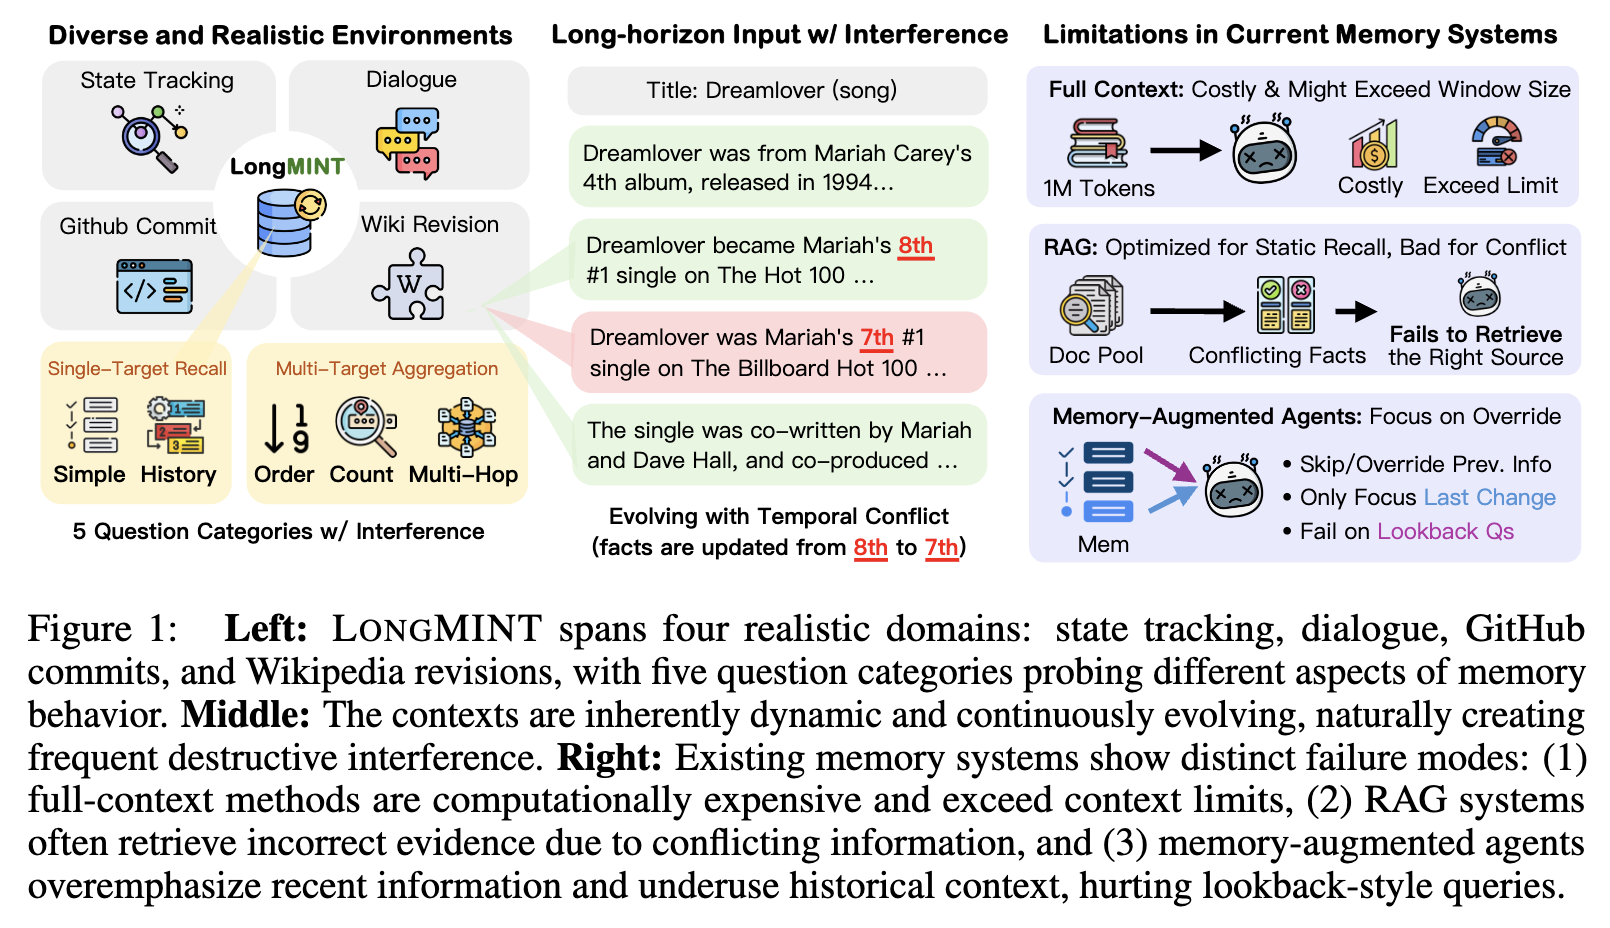
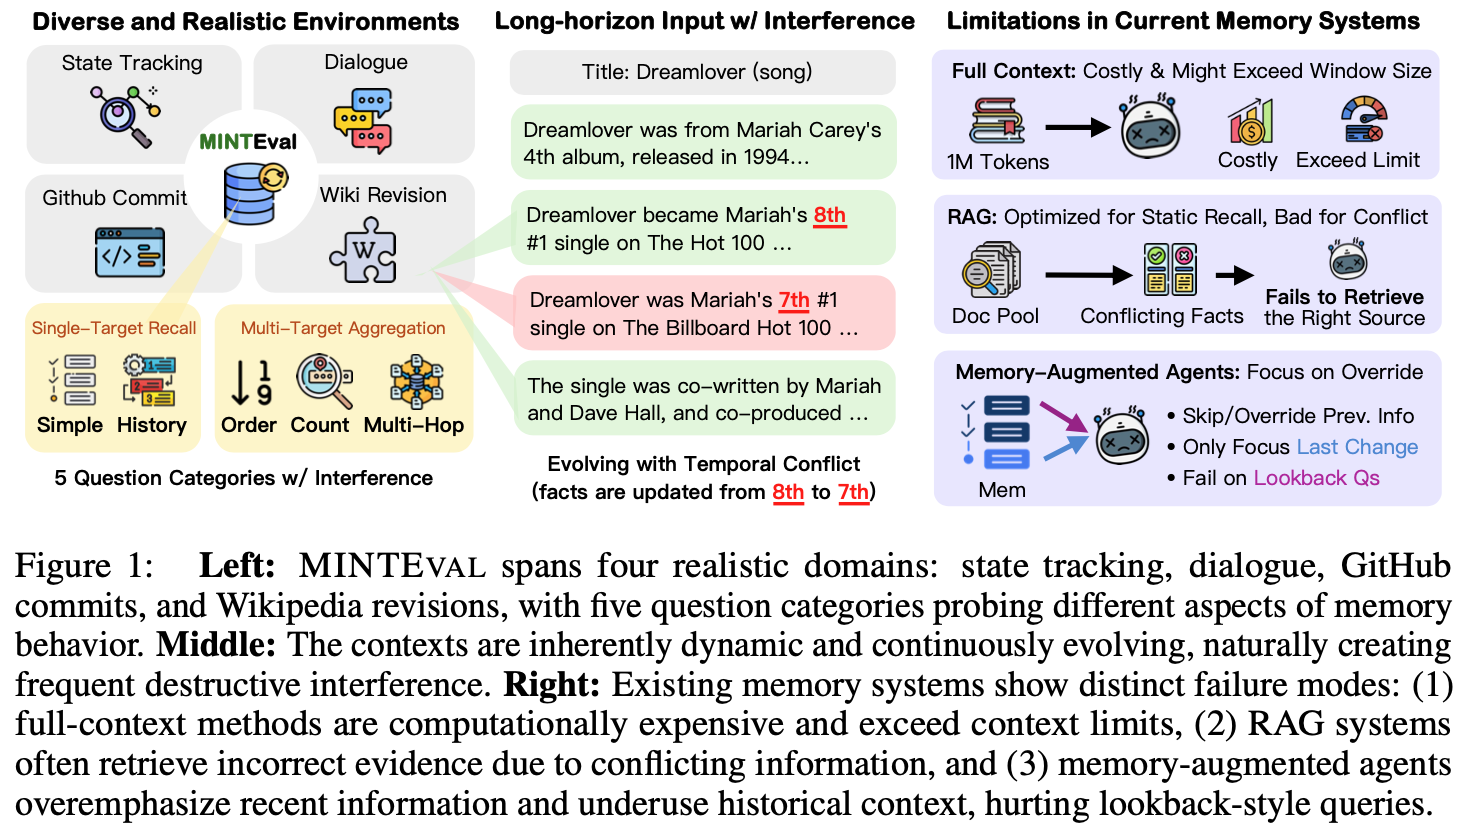
change dataname

Changed region(s): [[0.0, 0.0, 0.9796, 0.6325], [0.0, 0.6627, 1.0, 0.994]]

diff --git a/_common.py b/_common.py
@@ -188,7 +188,7 @@ def render_doc(ctx: dict, max_doc_chars: int) -> str:
     return doc
 
 
-HF_DATASET_ID = "dinobby/LongMINT"
+HF_DATASET_ID = "dinobby/MINTEval"
 HF_SPLIT_MAP = {
     "babi":         "state_tracking",
     "wiki":         "wiki_revisions",
@@ -255,7 +255,7 @@ def load_unified(path: str, max_doc_chars: int = 0):
 
 def load_from_hf(dataset: str, max_doc_chars: int = 0, *,
                  repo_id: str = HF_DATASET_ID):
-    """Load a split from the dinobby/LongMINT HF dataset (or any repo with
+    """Load a split from the dinobby/MINTEval HF dataset (or any repo with
     the same split-naming convention) and reshape into our in-memory schema.
 
     `dataset` is one of our short names (babi / wiki / github / horizonbench);
@@ -284,7 +284,7 @@ def load_raw_dataset(dataset: str, data_root: str | None, *,
 
     Source selection mirrors baserag/hipporag: when `data_root` is given,
     load `<data_root>/<dataset>.json`; otherwise pull the matching split
-    from the HF dataset (default `dinobby/LongMINT`). In both cases
+    from the HF dataset (default `dinobby/MINTEval`). In both cases
     `questions[].metadata` is normalized to a dict so callers indexing
     into the raw structure (atommem, fullcontext) don't need to care
     which source it came from.
@@ -314,7 +314,7 @@ def load_raw_dataset(dataset: str, data_root: str | None, *,
 def load_dataset_unified(dataset: str, data_path: str | None,
                          max_doc_chars: int = 0):
     """Single entry point: when `data_path` is given, load that JSON file;
-    otherwise pull the dataset from Hugging Face (`dinobby/LongMINT`). Returns
+    otherwise pull the dataset from Hugging Face (`dinobby/MINTEval`). Returns
     the same in-memory schema in both cases."""
     if data_path:
         return load_unified(data_path, max_doc_chars)

diff --git a/src/mem_alpha/conversation_creator.py b/src/mem_alpha/conversation_creator.py
@@ -24,8 +24,8 @@ class ConversationCreator():
 
         if dataset in ('memalpha', 'unified', 'unified_babi', 'unified_github', 'unified_horizonbench', 'unified_wiki'):
             
-            LONGMINT_HF_REPO = os.getenv('LONGMINT_HF_REPO', 'dinobby/LongMINT')
-            LONGMINT_LOCAL_DIR = os.getenv('LONGMINT_LOCAL_DIR')
+            MINTEval_HF_REPO = os.getenv('MINTEval_HF_REPO', 'dinobby/MINTEval')
+            MINTEval_LOCAL_DIR = os.getenv('MINTEval_LOCAL_DIR')
 
             HF_SPLIT_MAP = {
                 'babi':         'state_tracking',
@@ -50,11 +50,11 @@ class ConversationCreator():
                 return v
 
             def _load_items(source):
-                if LONGMINT_LOCAL_DIR:
-                    p = os.path.join(LONGMINT_LOCAL_DIR, f'{source}.json')
+                if MINTEval_LOCAL_DIR:
+                    p = os.path.join(MINTEval_LOCAL_DIR, f'{source}.json')
                     with open(p) as f:
                         return json.load(f), f'local:{p}'
-                hf_ds = load_dataset(LONGMINT_HF_REPO, split=HF_SPLIT_MAP[source])
+                hf_ds = load_dataset(MINTEval_HF_REPO, split=HF_SPLIT_MAP[source])
                 items = []
                 for row in hf_ds:
                     qs = []
@@ -68,7 +68,7 @@ class ConversationCreator():
                         'questions': qs,
                         'metadata': _maybe_unstring(row.get('metadata')),
                     })
-                return items, f'hf:{LONGMINT_HF_REPO}#{HF_SPLIT_MAP[source]}'
+                return items, f'hf:{MINTEval_HF_REPO}#{HF_SPLIT_MAP[source]}'
 
             rows = []
             for source in sources:

diff --git a/src/atommem/run_atommem_unified.py b/src/atommem/run_atommem_unified.py
@@ -23,8 +23,8 @@ EMBED_API_KEY = os.getenv("EMBED_API_KEY", "sk-123")
 
 DATASETS = ["babi", "github", "horizonbench", "wiki"]
 # Local override; leave unset (= None) to fall back to the HF dataset
-# (dinobby/LongMINT) the same way baserag/hipporag/memagent do.
-DEFAULT_DATA_ROOT = os.environ.get("LongMINT_DATA_ROOT")
+# (dinobby/MINTEval) the same way baserag/hipporag/memagent do.
+DEFAULT_DATA_ROOT = os.environ.get("MINTEval_DATA_ROOT")
 
 # Dataset-level instruction docs (per-dataset notes about data structure /
 # answer conventions). Lives under src/memagent/prompts so the same file can
@@ -722,8 +722,8 @@ def parse_args():
     p.add_argument("--data-root", type=str, default=DEFAULT_DATA_ROOT,
                    help="Local directory containing <dataset>.json files. "
                         "Leave unset (default) to load the split from the "
-                        "HF dataset dinobby/LongMINT, or set env "
-                        "LongMINT_DATA_ROOT to override.")
+                        "HF dataset dinobby/MINTEval, or set env "
+                        "MINTEval_DATA_ROOT to override.")
     p.add_argument("--output", type=str, default=None,
                    help="Output JSONL path. "
                         "Default: results_atommem_<dataset>.jsonl")

diff --git a/src/fullcontext/run_fullcontext_unified.py b/src/fullcontext/run_fullcontext_unified.py
@@ -14,7 +14,7 @@ URL = os.getenv("URL", "http://localhost:8000/v1")
 API_KEY = os.getenv("API_KEY", "123-abc")
 
 DATASETS = ["babi", "github", "horizonbench", "wiki"]
-DEFAULT_DATA_ROOT = os.environ.get("LongMINT_DATA_ROOT")
+DEFAULT_DATA_ROOT = os.environ.get("MINTEval_DATA_ROOT")
 
 PROMPTS_DIR = Path(__file__).resolve().parent.parent / "memagent" / "prompts"
 
@@ -349,8 +349,8 @@ def parse_args():
     p.add_argument("--data-root", type=str, default=DEFAULT_DATA_ROOT,
                    help="Local directory containing <dataset>.json files. "
                         "Leave unset (default) to load the split from the "
-                        "HF dataset dinobby/LongMINT, or set env "
-                        "LongMINT_DATA_ROOT to override.")
+                        "HF dataset dinobby/MINTEval, or set env "
+                        "MINTEval_DATA_ROOT to override.")
     p.add_argument("--output", type=str, default=None,
                    help="Output JSONL path. Default: results_fullcontext_<dataset>.jsonl")
     p.add_argument("--limit", type=int, default=None,

diff --git a/src/hipporag/tests_baserag.py b/src/hipporag/tests_baserag.py
@@ -40,7 +40,7 @@ _DTYPE_MAP = {
 
 def parse_args():
     p = argparse.ArgumentParser(
-        description="Dense-retrieval BaseRAG over a unified-format LongMINT dataset.")
+        description="Dense-retrieval BaseRAG over a unified-format MINTEval dataset.")
 
     # I/O
     p.add_argument("--dataset", required=True, choices=sorted(HF_SPLIT_MAP),
@@ -50,7 +50,7 @@ def parse_args():
     p.add_argument("--data_path", default=None,
                    help="Optional path to a local unified-format JSON file. "
                         "When omitted, the dataset is loaded from the "
-                        "dinobby/LongMINT Hugging Face dataset.")
+                        "dinobby/MINTEval Hugging Face dataset.")
     p.add_argument("--output_dir", default="outputs",
                    help="Base output directory. Final path is "
                         "<output_dir>/<dataset>/<llm_suffix>/<basename>.json.")

diff --git a/src/hipporag/tests_hipporag.py b/src/hipporag/tests_hipporag.py
@@ -31,7 +31,7 @@ from _common import (
 
 def parse_args():
     p = argparse.ArgumentParser(
-        description="HippoRAG over a unified-format LongMINT dataset.")
+        description="HippoRAG over a unified-format MINTEval dataset.")
 
     # I/O
     p.add_argument("--dataset", required=True, choices=sorted(HF_SPLIT_MAP),
@@ -41,7 +41,7 @@ def parse_args():
     p.add_argument("--data_path", default=None,
                    help="Optional path to a local unified-format JSON file. "
                         "When omitted, the dataset is loaded from the "
-                        "dinobby/LongMINT Hugging Face dataset.")
+                        "dinobby/MINTEval Hugging Face dataset.")
     p.add_argument("--output_dir", default="outputs",
                    help="Base output directory. Final path is "
                         "<output_dir>/<dataset>/<llm_suffix>/<basename>.json.")

diff --git a/src/memagent/run_memagent_unified.py b/src/memagent/run_memagent_unified.py
@@ -13,7 +13,7 @@ QA_API_KEY = os.getenv("QA_API_KEY", API_KEY)
 
 DATASETS = ["babi", "github", "horizonbench", "wiki"]
 
-DEFAULT_HF_REPO = "dinobby/LongMINT"
+DEFAULT_HF_REPO = "dinobby/MINTEval"
 HF_SPLIT_MAP = {
     "babi":         "state_tracking",
     "github":       "github_commits",
@@ -33,7 +33,7 @@ def _maybe_unstring(v):
     return v
 
 
-def load_longmint_items(dataset: str, *, hf_repo: str, local_dir: str | None):
+def load_MINTEval_items(dataset: str, *, hf_repo: str, local_dir: str | None):
     """Load one unified dataset's items.
 
     Priority:
@@ -313,7 +313,7 @@ async def process_item(session, item, dataset, *,
 
 
 async def amain(args):
-    items, data_src = load_longmint_items(
+    items, data_src = load_MINTEval_items(
         args.dataset, hf_repo=args.hf_repo, local_dir=args.data_root,
     )
     if args.limit is not None:

diff --git a/src/mem_alpha/run_memalpha_unified.py b/src/mem_alpha/run_memalpha_unified.py
@@ -8,7 +8,7 @@ MEM_ALPHA_DIR = Path(__file__).resolve().parent
 if not MEM_ALPHA_DIR.is_dir():
     raise SystemExit(
         f"Expected mem_alpha scaffolding at {MEM_ALPHA_DIR}. "
-        "Run the LongMint_dev setup first."
+        "Run the MINTEval_dev setup first."
     )
 
 

diff --git a/src/mem_alpha/README.md b/src/mem_alpha/README.md
@@ -1,7 +1,7 @@
 # Mem-alpha (vendored fork)
 
 This directory contains a vendored fork of [Mem-alpha](https://github.com/wangyu-ustc/Mem-alpha)
-by Wang Yu et al., included here so that LongMINT can run the Mem-alpha
+by Wang Yu et al., included here so that MINTEval can run the Mem-alpha
 baseline out of the box.
 
 - Upstream repository: https://github.com/wangyu-ustc/Mem-alpha
@@ -11,19 +11,19 @@ baseline out of the box.
 
 At the time of this fork, the upstream repository did not include an explicit
 license file. All copyright in the vendored code therefore remains with the
-original Mem-alpha authors. The LongMINT project includes this code in good
+original Mem-alpha authors. The MINTEval project includes this code in good
 faith for research-reproducibility purposes. Users who wish to redistribute,
-modify, or use this code beyond running the LongMINT benchmark should refer to
+modify, or use this code beyond running the MINTEval benchmark should refer to
 the upstream repository and contact the original authors for permission.
 
-Modifications introduced by the LongMINT authors (integration glue, evaluation
+Modifications introduced by the MINTEval authors (integration glue, evaluation
 harness, dataset loaders) are released under the same license as the rest of
-LongMINT.
+MINTEval.
 
 ## Citation
 
 If you use this code, please cite the original Mem-alpha paper in addition to
-LongMINT:
+MINTEval:
 
 ```bibtex
 @misc{wang2025memalphalearningmemoryconstruction,

diff --git a/src/hipporag/README.md b/src/hipporag/README.md
@@ -1,7 +1,7 @@
 # HippoRAG (vendored fork)
 
 This directory is a vendored fork of [HippoRAG](https://github.com/OSU-NLP-Group/HippoRAG)
-by the OSU NLP Group, included here so that LongMINT can run the HippoRAG and
+by the OSU NLP Group, included here so that MINTEval can run the HippoRAG and
 BaseRAG baselines out of the box.
 
 - Upstream repository: https://github.com/OSU-NLP-Group/HippoRAG
@@ -9,11 +9,11 @@ BaseRAG baselines out of the box.
 - Upstream license: MIT (see `LICENSE` in this directory)
 
 Code in this directory has been modified from upstream to integrate with
-LongMINT's evaluation. Modifications by the
-LongMINT authors are also released under the MIT License.
+MINTEval's evaluation. Modifications by the
+MINTEval authors are also released under the MIT License.
 
 If you use this code, please cite the original HippoRAG paper in addition to
-LongMINT.
+MINTEval.
 
 ```bibtex
 @misc{gutiérrez2025ragmemorynonparametriccontinual,
